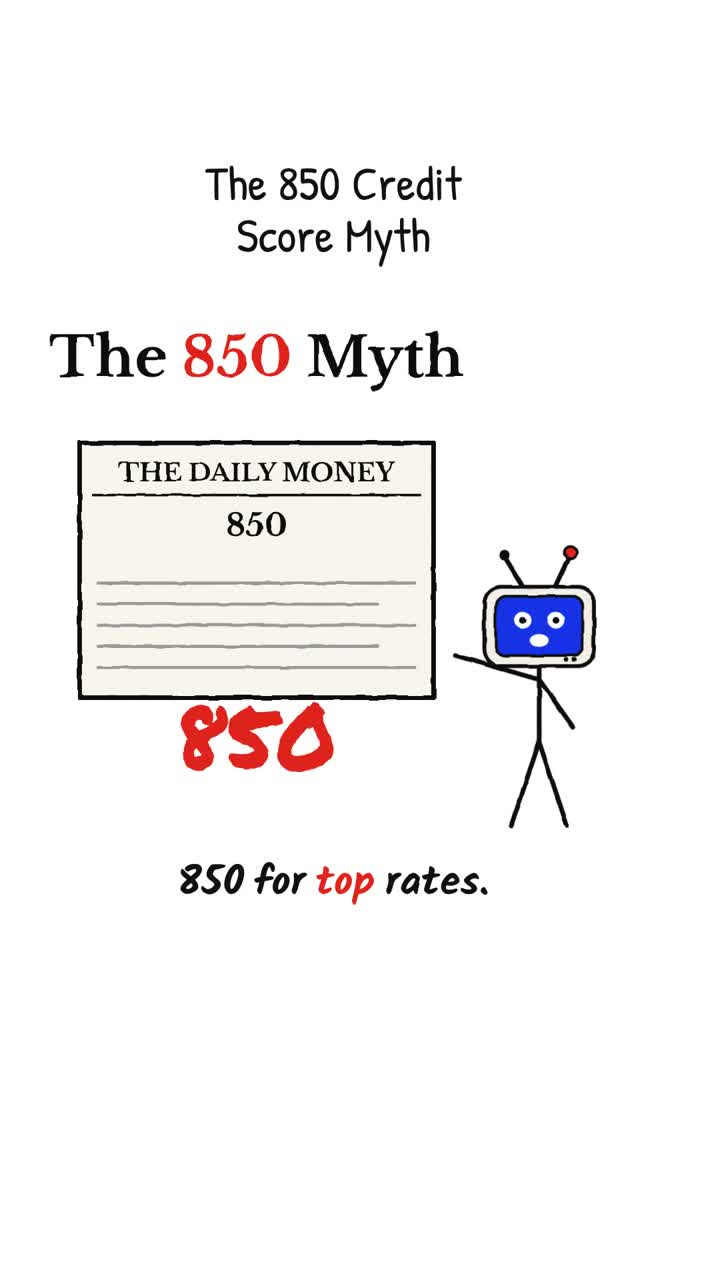
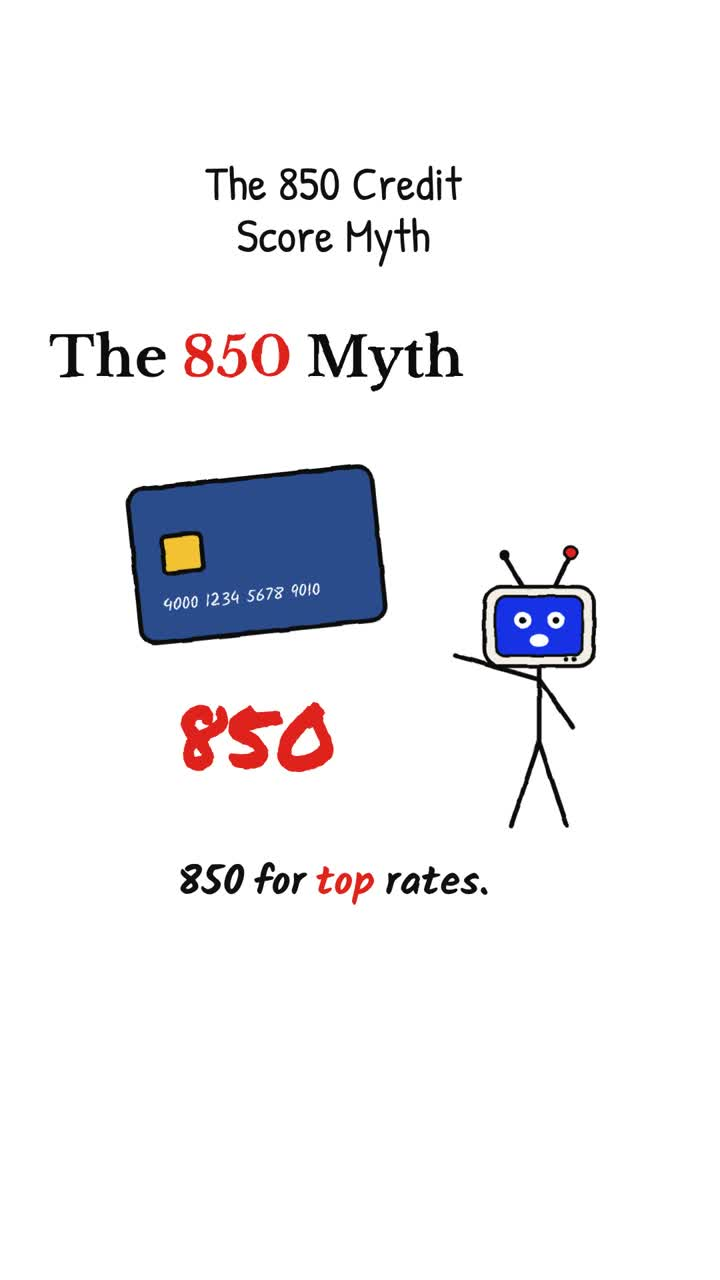
2027-01-26 hot: built

Changed region(s): [[0.0917, 0.3438, 0.6111, 0.5625]]

diff --git a/engine/concepts/scripts/auto/2027-01-26-hot.factcheck.md b/engine/concepts/scripts/auto/2027-01-26-hot.factcheck.md
@@ -47,3 +47,4 @@ VERDICT: PASS
 ## Round 2 (editor)
 Reviewed applied fixes (prop label, LLPA wording, VantageScore basis, spoken list item); limits pass.
 VERDICT: PASS
+Editor: hook/cover prop changed from newspaper ('paper') to card without label.
